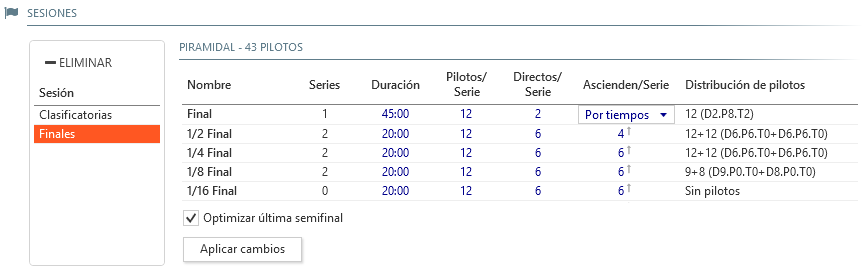
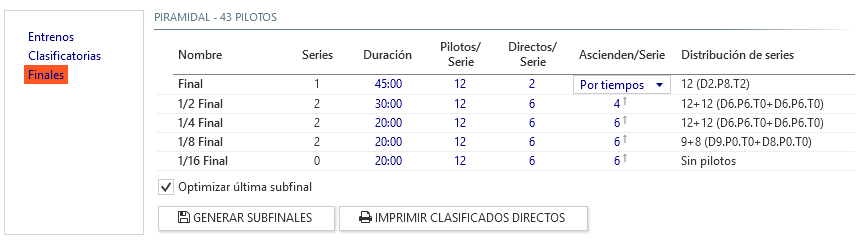
Updates for Vehicle Number and Subfinals

diff --git a/docs/race-formats/christmas-tree.md b/docs/race-formats/christmas-tree.md
@@ -42,8 +42,14 @@ Las sesiones anteriores a las finales (entrenos, recolocación y/o clasificació
 	- **D**: Número de pilotos que se clasifican directamente por su resultado en las clasificatorias.
 	- **P**: Número de pilotos que ascienden de la subfinal anterior según su posición. 
 	- **T**: Número de pilotos que ascienden de la subfinal anterior según su resultado de *Vueltas/Tiempo*.
+	
+##### Acciones adicionales
 
-!!! warning "Aplicar cambios"
-	Después de realizar las modificaciones pertinentes en cualquiera de los parámetros de configuración de la pirámide es necesario pulsar *Aplicar cambios* para que se generen y/o acualicen la lista de subfinales que componen la carrera.
+- **Generar Subfinales**: Inicializa o actualiza la lista de subfinales según los parámetros de configuración introducidos y el número de inscripciones en la carrera.
 
-	Hasta que no se pulse sobre *Aplicar cambios* al menos una vez no se generará la lista de subfinales para poder generar las series de forma correcta en el panel de [series](../user-guide/races/index.html#series)
+- **Imprimir clasificados directos**: Una vez finalizadas las mangas clasificatorias, permite generar un listado con la asignación de los pilotos en sus subfinales correspondientes.
+
+!!! warning "Generar Subfinales"
+	Después de realizar modificaciones en cualquiera de los parámetros de configuración de la pirámide que hagan variar el número de subfinales, es necesario pulsar *Generar Subfinales* para que se actualice la lista de subfinales que componen la carrera.
+
+	Hasta que no se pulse sobre *Generar Subfinales* al menos una vez no se generará la lista de subfinales para poder generar las series de forma correcta en el panel de [series](../user-guide/races/index.html#series)

diff --git a/docs/race-formats/qualify-finals.md b/docs/race-formats/qualify-finals.md
@@ -31,10 +31,17 @@ Por defecto se crean sesiones de entrenamiento, recolocación, clasificatorias y
 	- **No llamar**: No nombrar a los recogecoches.
 	- **Manga anterior**: Nombra a los recogecoches de la serie anterior de la misma carrera. Utilizar sólo si los pilotos de la misma carrera recogen justo después de correr su manga.
 
-- **Nombre pilotos**: Establece cómo ha de nombrar el sistema de locución a los pilotos para dar su posición en carrera, resultados finales, etc...
+- **Nombrar pilotos**: Establece cómo ha de nombrar el sistema de locución a los pilotos para dar su posición en carrera, resultados finales, etc...
 	
 	- **Usar apodo**: Utiliza el apodo del piloto.
-	- **Usar número de coche**: Utiliza el número de coche asignado al piloto.
+	- **Usar número de vehículo**: Utiliza el número de vehíulo asignado en la inscripción.
+	
+- **Numeración**: Establece el sistema de numeración de los vehículos durante la carrera.
+
+	- **Renumerar cada serie**: En cada serie se modifica el número de cada vehículo en función de su posición de salida.
+	- **Numeración fija**: Se mantiene el mismo número de vehículo durante toda la carrera. Todos los pilotos deben tener su número único asignado en el panel de inscripciones.
+
+- **Vehículo**: Establece el nombre de vehículo en las locuciones y listados (Coche o Moto)
 
 ##### Común
 

diff --git a/docs/user-guide/drivers.md b/docs/user-guide/drivers.md
@@ -50,12 +50,12 @@ Permite la introducción, modificación y borrado de los pilotos disponibles.
 
 Muestra el detalle de todos los datos del piloto, incluyendo además de los datos personales enumerados anteriormente, las listas de transponders y rankings por categoría, las carreras activas en las que participa el piloto, y las etiquetas asignadas al mismo.
 
-#### Transponders y rankings
+#### Transponders, rankings y números de vehículo
 
-Gestiona la lista de transponders y rankings del piloto según las categorías en las que participa
+Gestiona la lista de transponders, rankings y números de vehículo del piloto según las categorías en las que participa
 
 - **Categoría**: Permite seleccionar entre las disponibles en la lista de [categorías](./config/index.html#categorias)
-- **Transponder y rank**: Permite asignar los valores correspondientes para el piloto en la categoría seleccionada.
+- **Transponder, rank y vehículo**: Permite asignar los valores correspondientes para el piloto en la categoría seleccionada.
 
 !!! info ""
 	Al inscribir un piloto manualmente en una carrera, el sistema compara la categoría de la carrera con las categorías asignadas al piloto para asignar el transponder correspondiente. En caso de que no exista coincidencia, se asigna el transponder asignado a la categoría por defecto. 

diff --git a/docs/user-guide/races.md b/docs/user-guide/races.md
@@ -70,6 +70,10 @@ La pantalla se divide verticalmente en dos partes:
 
 - **Imprimir**: Imprime la lista de pilotos inscritos junto con su número de transponder.
 
+- **Herramientas**:
+	- **Ranking a número de vehículo**: Copia el valor de ranking al número de vehículo para cada piloto inscrito.
+	- **Número de vehículo a ranking**: Copia el número de vehículo al valor de ranking.
+
 - &fa-search; **(Filtro de búsqueda)**: Realiza un filtrado de los pilotos inscritos mostrando aquellos en los que alguno de sus campos (Nombre, Apellidos, Apodo, etc...) coinciden total o parcialmente con el texto introducido en el campo de búsqueda. 
 
 ##### Campos
